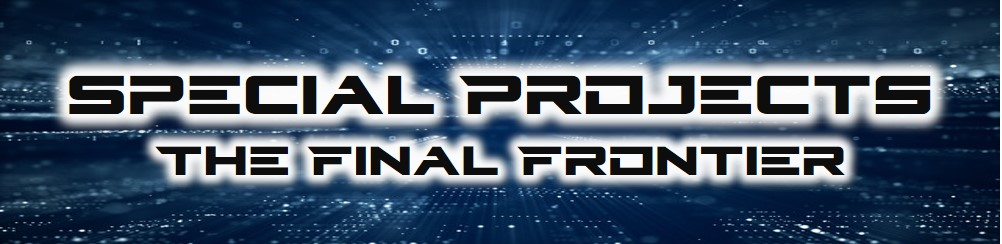
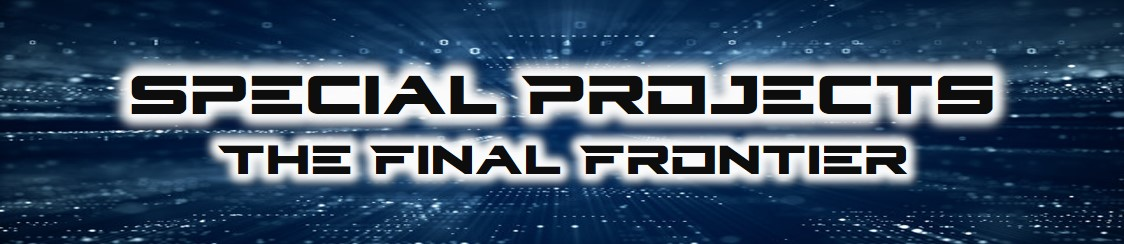
Updated wrapper.

diff --git a/Index.html b/Index.html
@@ -10,11 +10,11 @@
     grid-template-columns: 1fr 3.5fr 1fr;
     grid-template-rows: .8fr 1fr 1fr 1fr 1fr;
     grid-template-areas:
-    "title1 title2 title3"
-    "header header header"
-    "sidebar sidebar sidebar"
-    "content content content"
-    "footer footer footer";
+    ". title1 title2 title3 ."
+    ".header header header ."
+    ".sidebar sidebar sidebar ."
+    ".content content content ."
+    ".footer footer footer .";
     grid-gap: 1em;
 }
 
